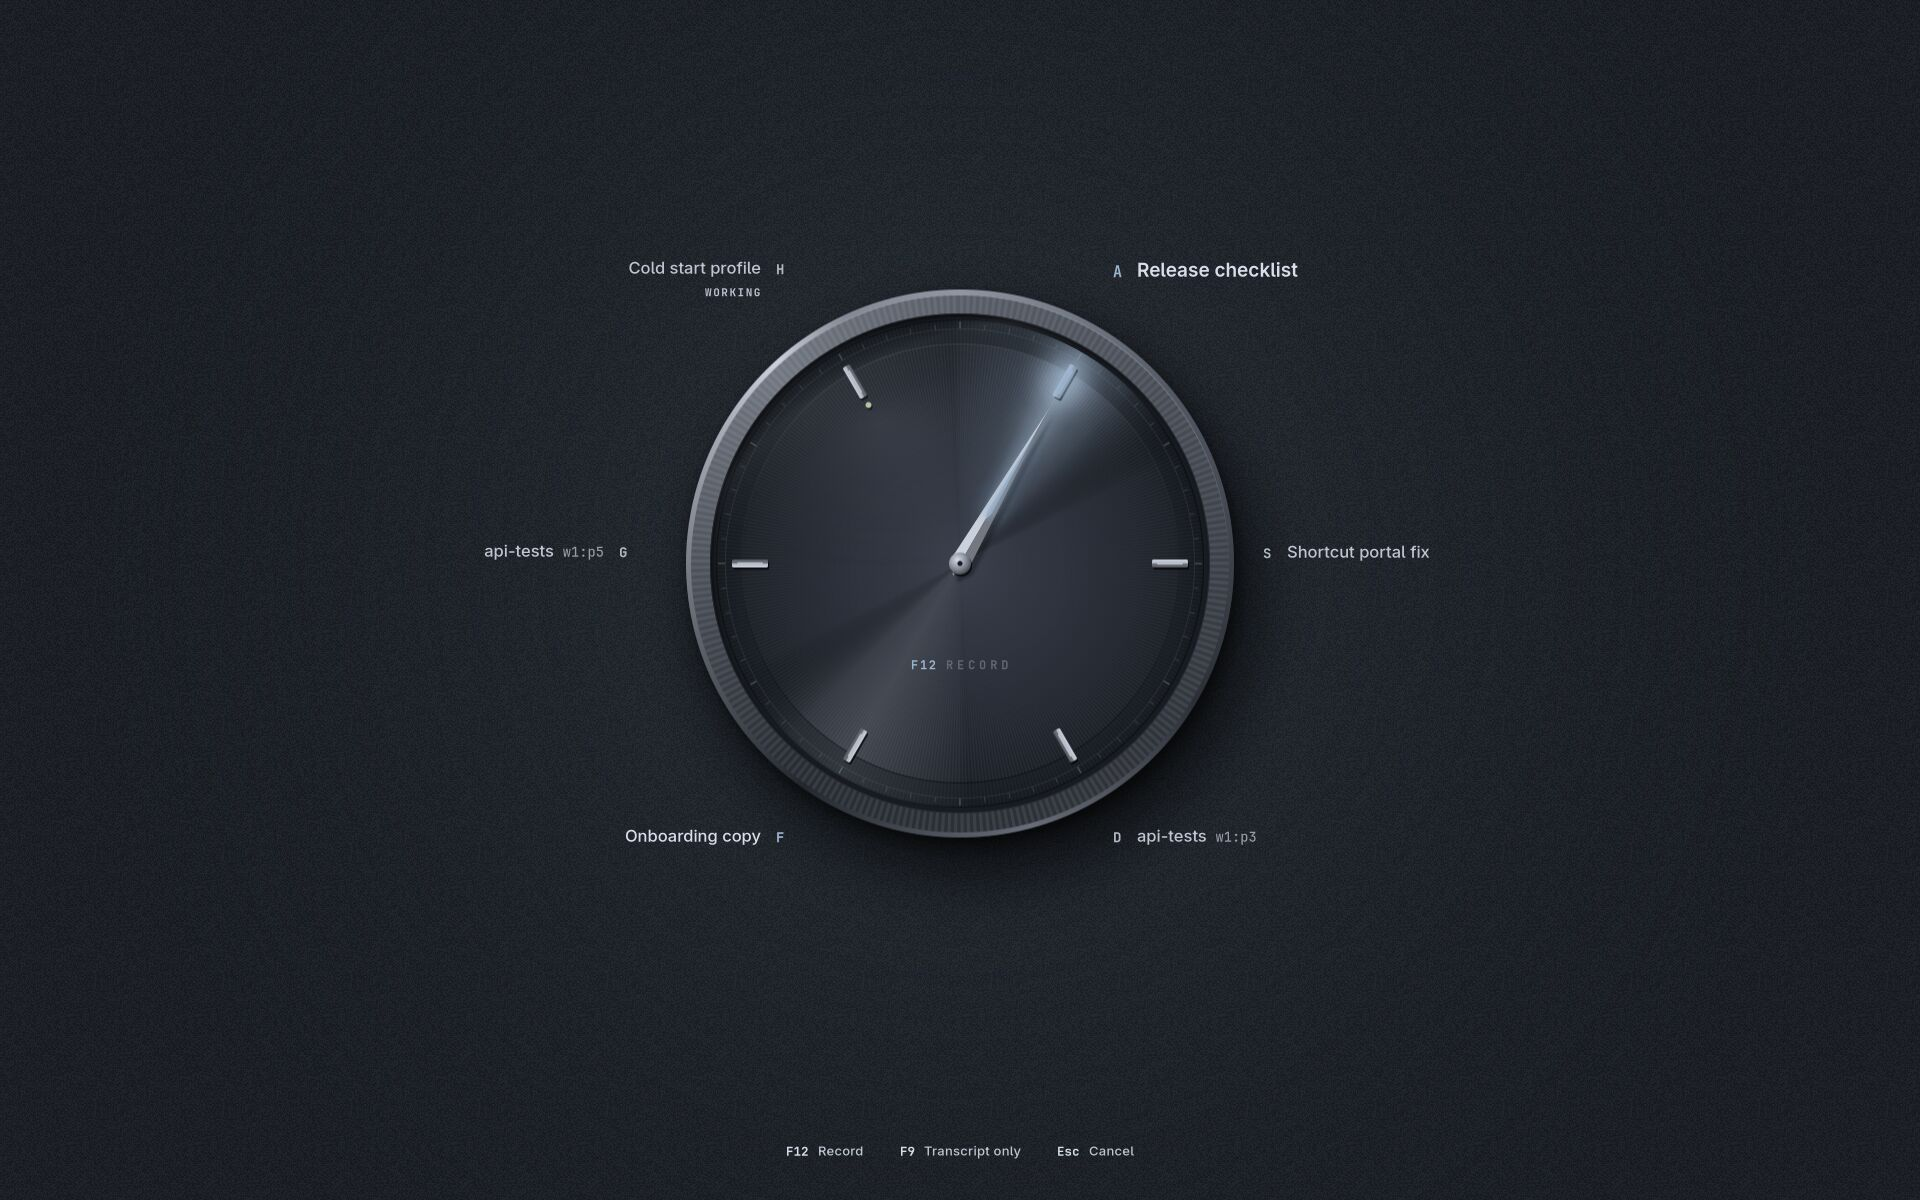
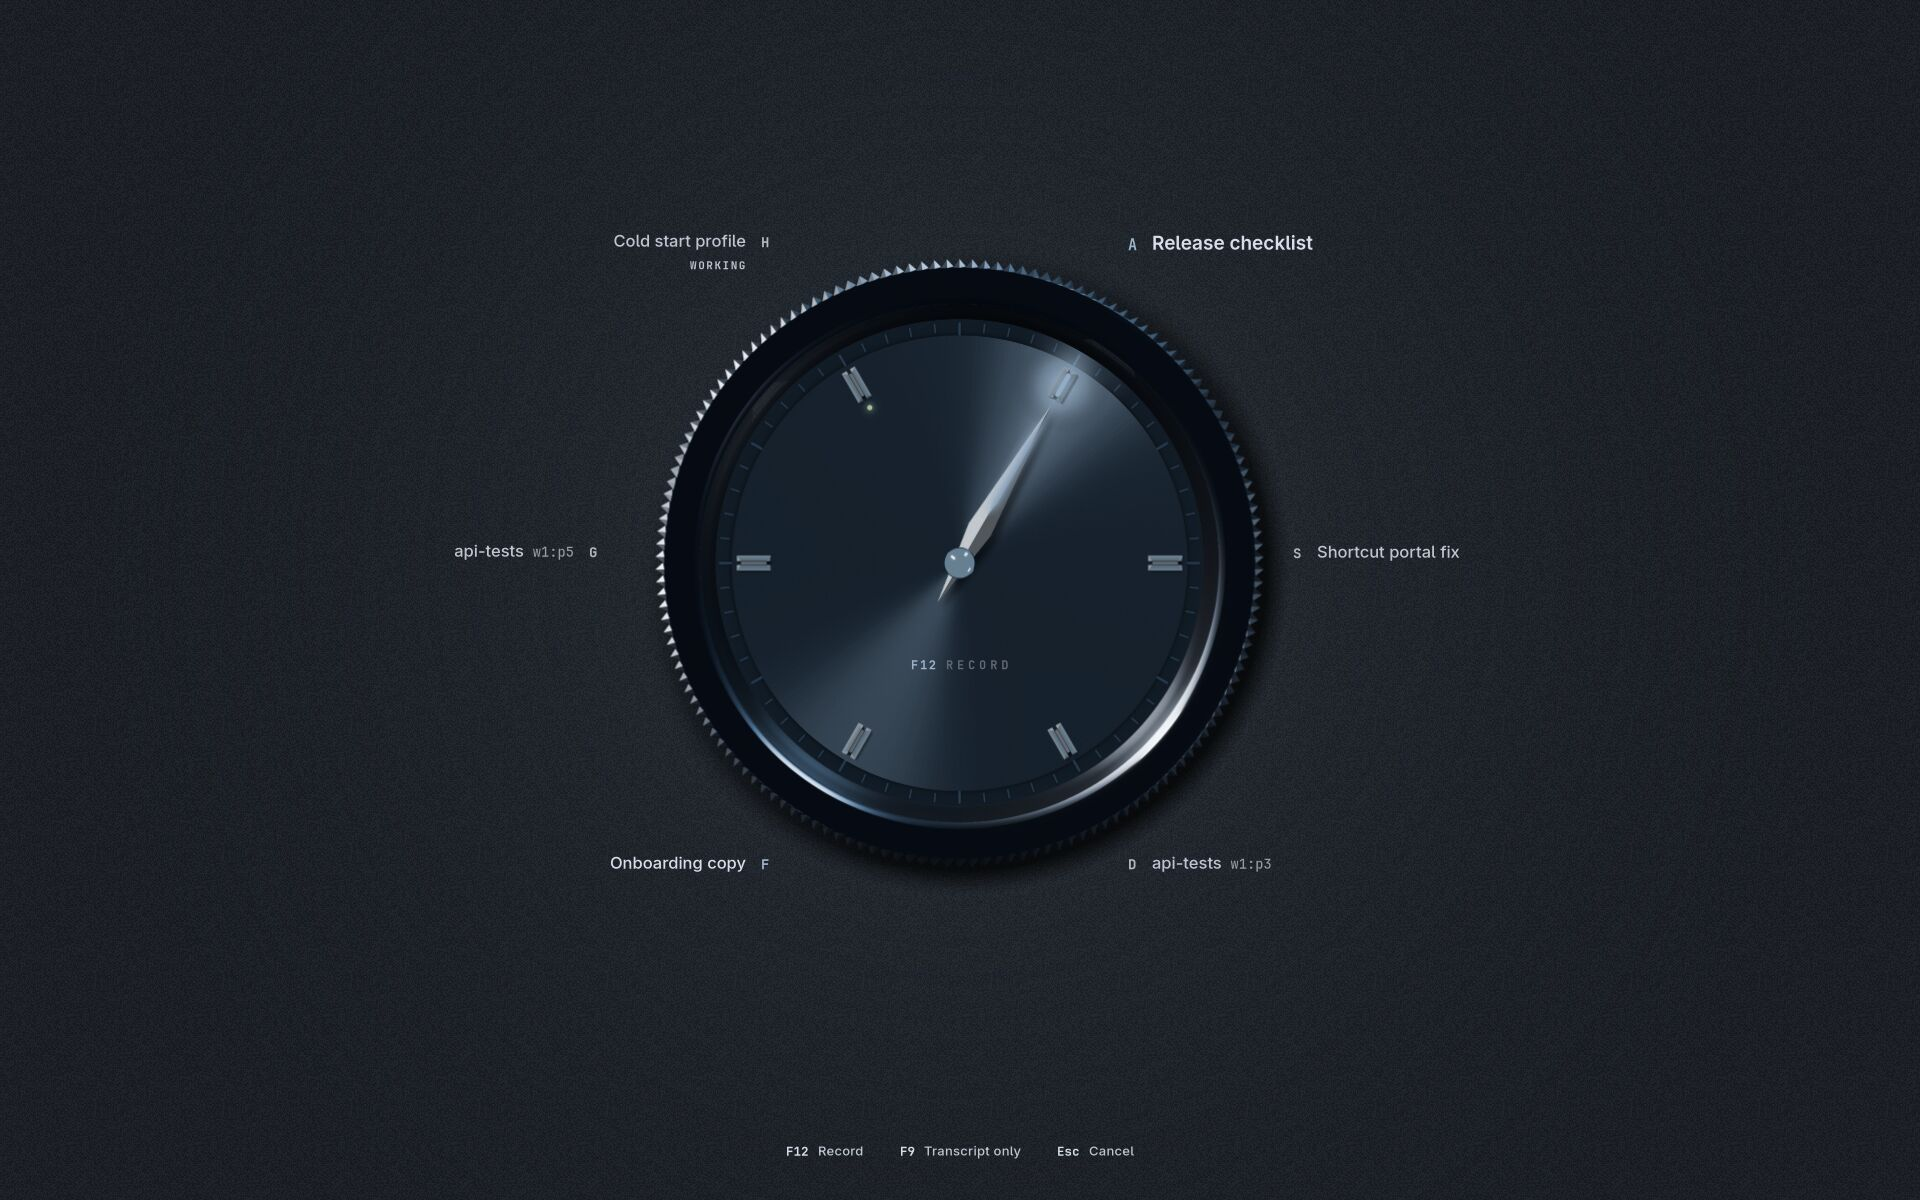
Regenerate the wheel captures from the Blender-baked layers
New after captures, and a Blender render beside the native wheel at twenty sessions.

diff --git a/docs/verification/f12-session-wheel/README.md b/docs/verification/f12-session-wheel/README.md
@@ -25,16 +25,16 @@ The overlay links `gtk4-layer-shell`, which is part of Omarchy's base install. I
 
 ## The watch
 
-The wheel is a watch, so the chosen session is where the light falls:
+The wheel is a watch, so the chosen session is where the light falls. The static parts are Blender renders baked into layers (see `rust/mluva-gtk/resources/wheel/README.md`) and composited live with GtkSnapshot:
 
-- **Case.** A polished steel case: a conic sweep of highlights, brightest at the upper left, and a fine knurled bezel band. A dark gasket sits under the crystal.
-- **Dial.** A sunray dial: radial brushing that fades out toward the centre, on a radial base. The sunburst bar turns to face the chosen session, with a weaker bar opposite. A matte chapter ring and a quiet railway minute track run round the edge.
-- **Indices.** One applied index per session, faceted, with a drop shadow to the lower right and a lume channel. Working has a lume dot at its inner end, blocked has amber lume, draft-only is hollow, and a gone session is an empty setting with two tiny feet.
-- **Hand and light.** A faceted dauphine hand with a glowing lume channel under a domed cap. The hand is a damped spring with a small mechanical overshoot. A soft beam and a pool of light follow it on a softer spring, so the glow trails the hand and settles on the index, which blooms. The light is the accent mixed toward the ink; for a blocked or missing choice it is the warning colour.
-- **Crystal.** A domed reflection at the upper left above everything on the dial.
+- **Case.** A knurled steel case with real teeth and a baked contact shadow, 1.247 times the dial's radius.
+- **Dial.** A sunray dial stored as luminance and tinted at runtime from the theme's accent and darker ground, so Nord lands on the render's navy and the default palettes get their own tint. A chapter ring and a railway minute track are part of the bake.
+- **Indices.** One chunky faceted applied index per session, picked from a 24-view atlas so its highlights stay fixed in screen space. The lume channel is a recess filled live: the accent mix for the chosen index, the warning colour for blocked, a dim ink otherwise, blooming on the chosen and blocked ones. Working has a lume dot at 0.74 of the dial radius, draft-only uses the hollow atlas, and a gone session is an empty setting with two tiny feet.
+- **Hand and light.** A faceted hand whose lit and shaded facets trade places as it turns against a fixed upper-left light, with a shadow offset to the lower right and a glowing lume channel, under a polished cap. The hand is a damped spring with a small mechanical overshoot. The sunray sheen turns to the light on a softer spring, and a beam and a pool of light follow it, so the glow trails the hand and settles on the index. The light is the accent mixed toward the ink, and the warning colour for a blocked or missing choice.
+- **Crystal.** A domed crystal with Fresnel reflections over everything on the dial.
 - **Dial text.** `F12 RECORD`, 42% of the dial radius below the centre, or `BLOCKED`, `GONE` or `CHOOSE A SESSION`. The centre never repeats the chosen name. The legend at the bottom reads `F12 Record · F9 Transcript only · Esc Cancel`, and Record dims while it is withdrawn.
 
-It is drawn with GtkSnapshot. The case, dial texture, minute track, indices, cap and crystal never move while the choice swings, so each is recorded once, baked into a texture at the display's scale and merely appended each frame. Only the sunburst bar, the light, the bloom and the hand are drawn per frame. Colour comes from the active theme's canvas, ink, action, warning and success tokens, with derived mixes for the darker grounds; a theme whose canvas is lighter than its ink keeps light steel and a dark dial. On open the hand sweeps in from about −40°. With animations disabled everything is placed at rest.
+The case, tinted dial, indices, cap and crystal never move while the choice swings, so each is composited once into a layer, baked into a texture at the display's scale and merely appended each frame. Per frame only the sheen, the beam and pool, the lume bloom of the chosen index, the hand with its shadow and facet shading are drawn, which stays smooth on the cairo renderer the private desktop uses. Colour comes from the active theme's canvas, ink, action, warning and success tokens. The steel stays steel in every theme and only the dial's tint and the lume follow it. On open the hand sweeps in from about −40° and the watch fades in over 160 ms. With animations disabled everything is placed at rest.
 
 ## Layout
 
@@ -79,18 +79,18 @@ The window fallback on X11, at its natural size, with no frame:
 | --- | --- |
 | ![Twenty sessions in the window fallback](window-nord-twenty.jpg) | ![Six sessions in the window fallback](window-nord-six.jpg) |
 
-The design prototype and the native result at twenty sessions, with the same fixtures:
+The Blender render of the watch and the native wheel at twenty sessions:
 
-![The HTML prototype and the native wheel side by side at twenty sessions](prototype-vs-native-twenty.jpg)
+![The Blender render and the native wheel side by side at twenty sessions](blender-vs-native-twenty.jpg)
 
-The native watch differs from the prototype in these ways:
+The native watch still differs from the render in these ways:
 
-- The names stand where the prototype puts them, but are then pushed apart and kept off the case by a deterministic rule, so a crowded pole may differ by a few pixels.
-- The bloom is GSK blur on the lume, not an SVG filter, so its falloff is slightly harder. It also fades in as the light arrives and out as it leaves.
-- The knurled bezel and sunray brushing are drawn as thin wedges, since GSK has no repeating conic gradient, and are baked into a texture.
-- The chapter ring is a matte step with a highlight and a shadow edge, drawn from the prototype's screenshots rather than its stylesheet.
-- The room's grain is a fixed noise tile at about 3% opacity, not an SVG turbulence filter.
-- Ring placement is symmetric, so the watch stays centred even when one side has a very wide name; the prototype pinned it at a fixed point.
+- The render is a lit 3D scene; the native watch composites its layers with a live sheen, beam and pool. The pool of light is less bright than the render's, and the render's reflections move with its camera while the crystal here is fixed.
+- The render's crown is not in the layers.
+- The baked contact shadow reaches the edge of the 2048 px frame, so it is faded out near the frame's edge and is tighter than the render's.
+- Indices are the nearest of 24 baked views, turned by at most 7.5°, so a highlight can be a few degrees off a render's.
+- The default light and dark palettes keep the steel and tint only the dial, so they differ from Nord's blue.
+- Names are pushed apart and kept off the case by a deterministic rule where they crowd.
 
 ## Artifacts removed
 
@@ -114,7 +114,7 @@ Daniel confirmed eleven artifacts of the previous wheel; each is gone, and the c
 
 | Boundary | Evidence |
 | --- | --- |
-| Native gate | `make linux-test` with `TMPDIR` on disk passed: 231 passed, zero failed, 69 gated or ignored. Both strict Clippy configurations, formatting and generated-feature consistency passed. Geometry unit tests cover: the one o'clock start and clockwise angles; names on their own index's side; no overlap with each other or the case for 1–26 sessions and for 400 pseudo-random mixes of count and name size; every name inside a stage that fits the laptop screen; clockwise order per side; each name near its own index; the dial shrinking on a small screen while every name stays; and that the layout depends on the names alone. Spring tests cover the hand's small overshoot, the light trailing it and the short way round. The ignored Lua test, run with the system interpreter, covers the managed Hyprland script: one `no_anim` rule across applies, a switched-off rule re-enabled and a dropped one recreated, with other bindings untouched. |
+| Native gate | `make linux-test` with `TMPDIR` on disk passed: 232 passed, zero failed, 69 gated or ignored. Both strict Clippy configurations, formatting and generated-feature consistency passed. Geometry unit tests cover: the one o'clock start and clockwise angles; names on their own index's side; no overlap with each other or the case for 1–26 sessions and for 400 pseudo-random mixes of count and name size; every name inside a stage that fits the laptop screen; clockwise order per side; each name near its own index; the dial shrinking on a small screen while every name stays; and that the layout depends on the names alone. Spring tests cover the hand's small overshoot, the light trailing it and the short way round. The ignored Lua test, run with the system interpreter, covers the managed Hyprland script: one `no_anim` rule across applies, a switched-off rule re-enabled and a dropped one recreated, with other bindings untouched. |
 | Name provenance | Provider tests use a Herdr peer and a Codex index fixture. They cover Claude titles, renamed Codex threads (latest wins), long and Unicode titles, the "Claude Code" product title, an unnamed Codex thread whose terminal title is only the project, and the fallback to Herdr name and pane. An index larger than 4 MiB is read from its newest whole lines. |
 | Real application | `make linux-agent-voice-test` passed: 15 captures, 13 recognitions, five guarded submissions. Private X11 keys exercise selection, Escape, second F12, F9, paging at 30 sessions, server reorder and target disappearance, and the wheel fits the private screen from zero to 20 sessions. The wording of the notice a new recording gives when it interrupts a countdown is a unit test: History is promised only when a row exists. The four known narrow-editor allocation warnings remain and none comes from the wheel. |
 | Shortcut portal | `make linux-shortcut-test` passed. |
@@ -123,7 +123,7 @@ Daniel confirmed eleven artifacts of the previous wheel; each is gone, and the c
 | Not verified live | The watch has not been shown on the live compositor: no live layer-shell run, no live F12 path and no check of the `no_anim` rule against the running Hyprland. The rule's Lua was run only against a stub of `hl` with the system Lua interpreter. The Lenovo's 3840×2400 screen at scale 2 was approximated by an offscreen 3840×2400 X11 screen at scale 2. Frame pacing on real hardware, GPU renderer behaviour and the Wayland layer-shell surface size are not measured. |
 | Live metadata (read only) | One `agent.guarded_list` read against the developer's running Herdr: all six live Codex and Claude Code sessions resolved to the title held in their agent's own store. That is the Codex `thread_name` for the session ID, or Claude Code's effective `customTitle`/`aiTitle`; none showed a dispatch name. No names are recorded here. |
 | Visual states | The `session_wheel_gallery` example renders the production wheel in 22 synthetic states per palette, at a chosen screen size, as a window or with `overlay` styling at screen size. The states are: one, three, six, 20 and 30 sessions; long, duplicate, Czech, CJK and emoji names; blocked, missing, draft-only and untitled sessions; no selection; empty; hover; keyboard focus on a choice, on Record and on Cancel; and the hand in flight and at rest. It also audits itself and exits with a failure if a name leaves the screen, two names overlap, or three status changes plus a new choice on twenty sessions move any name. |
-| Visual review | Daniel picked the sundial-watch direction from ten prototypes and asked for it to be pushed further; the native build follows that prototype and lists where it differs. The captures in three palettes (Nord, default light and default dark) were reviewed by the implementer against the eleven artifacts and the prototype. No independent finish review has scored the native watch. |
+| Visual review | Daniel picked the sundial-watch direction from ten prototypes and asked for it to be pushed further; then asked for it to look like the Blender render; the native build composites that render's baked layers and lists where it still differs. The captures in three palettes (Nord, default light and default dark) were reviewed by the implementer against the eleven artifacts and the render. No independent finish review has scored the native watch. |
 
 Render the gallery inside the private desktop at the screen being judged:
 
